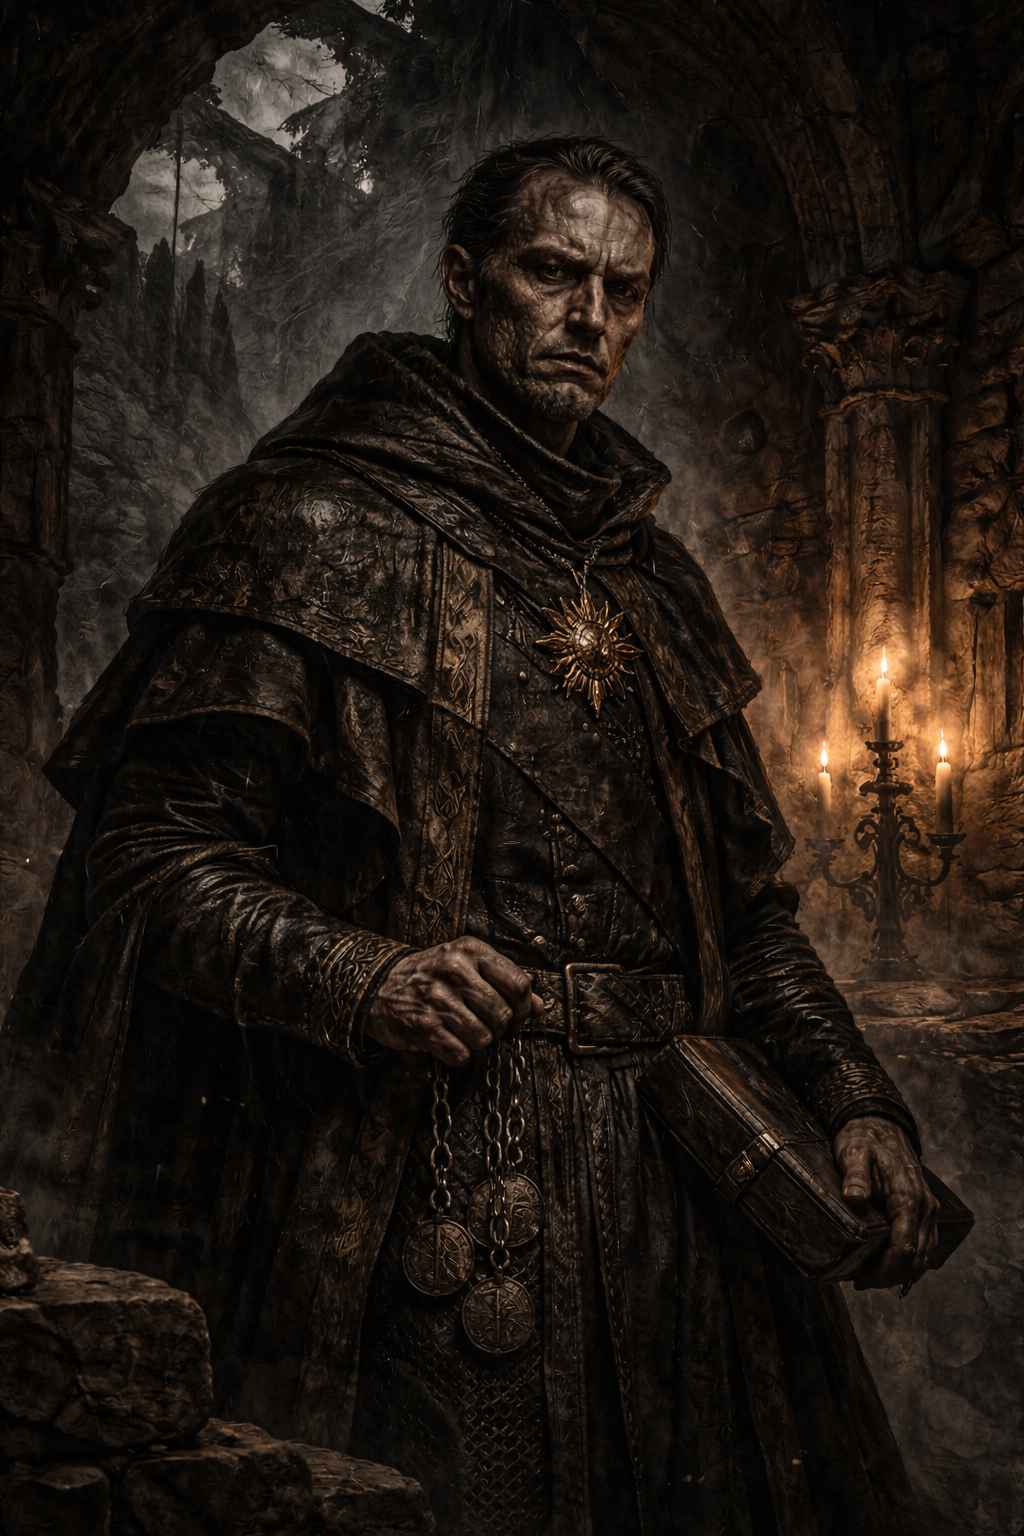
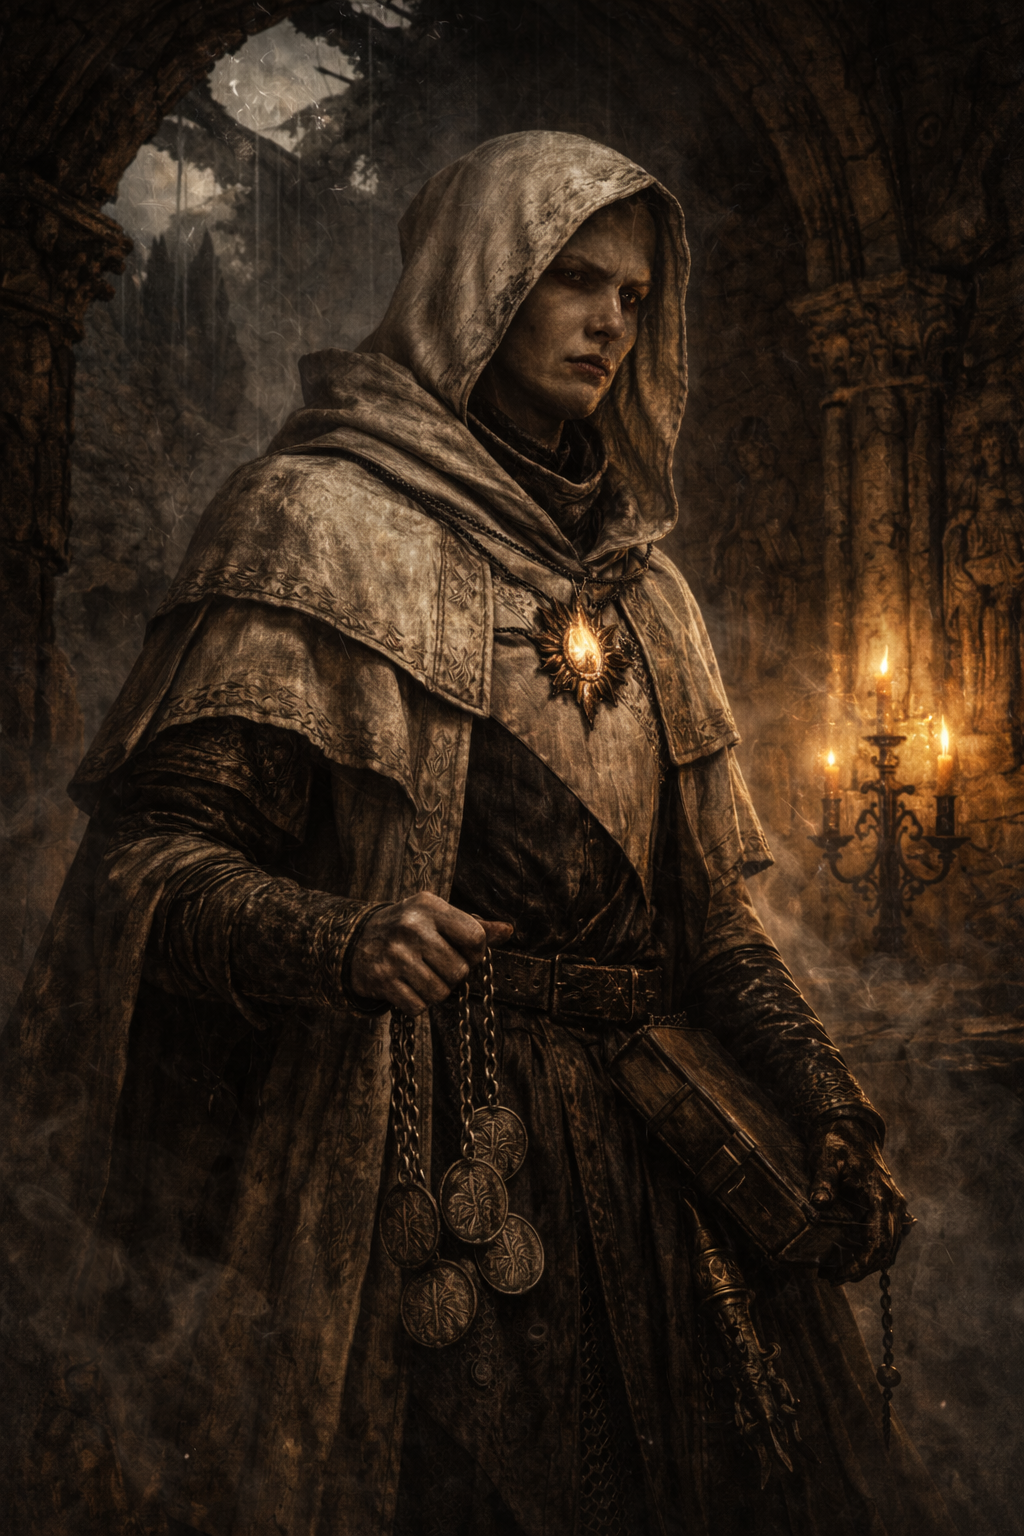
Update Pale Flame portrait and architecture docs

diff --git a/docs/architecture.md b/docs/architecture.md
@@ -71,7 +71,7 @@ Returns: updated GameState + array of `StatChange` objects for UI display.
 
 Domain handlers that apply `commit_turn` mutations to GameState:
 
-- **`character.ts`**: hp_delta/hp_set, credits, inventory add/remove/use (charges), temp modifiers, trait updates, level-up (HP max, proficiency bonus), stat increases, exhaustion, inspiration, roll breakdowns
+- **`character.ts`**: hp_delta/hp_set, credits, inventory add/remove/use (charges), temp modifiers, trait updates, level-up (HP max, proficiency bonus), stat increases, exhaustion, inspiration, roll breakdowns. **Dedup**: inventory_use rejects same item within 2 player turns (`meta._recentItemUses`); credits_delta rejects same negative amount within 2 turns (`meta._recentCreditChanges`), same amount in batch, or matching ledger entry
 - **`world.ts`**: NPCs (add/update with disposition, tempLoad, signature lines, combat tier), location, time, scene snapshot, threads, promises, decisions (with origin counter auto-tick), factions, antagonist (establish/move/defeat), cohesion, ship state, tension clocks (establish/advance/trigger/resolve), notebook (clues, connections with tier derivation and taint propagation), operation state, exploration state, timers, heat trackers, ledger
 - **`combat.ts`**: start (spawn enemies), update enemies, end (loot, credits), auto-end when no enemies remain
 - **`narrative.ts`**: chapter_frame (with mid-chapter refinement gating), signal_close, close_chapter (archives messages, resets chapter-scoped state), debrief, scene summaries, objective status, pivotal scenes, story arcs (create/advance/resolve/abandon/add_episode)